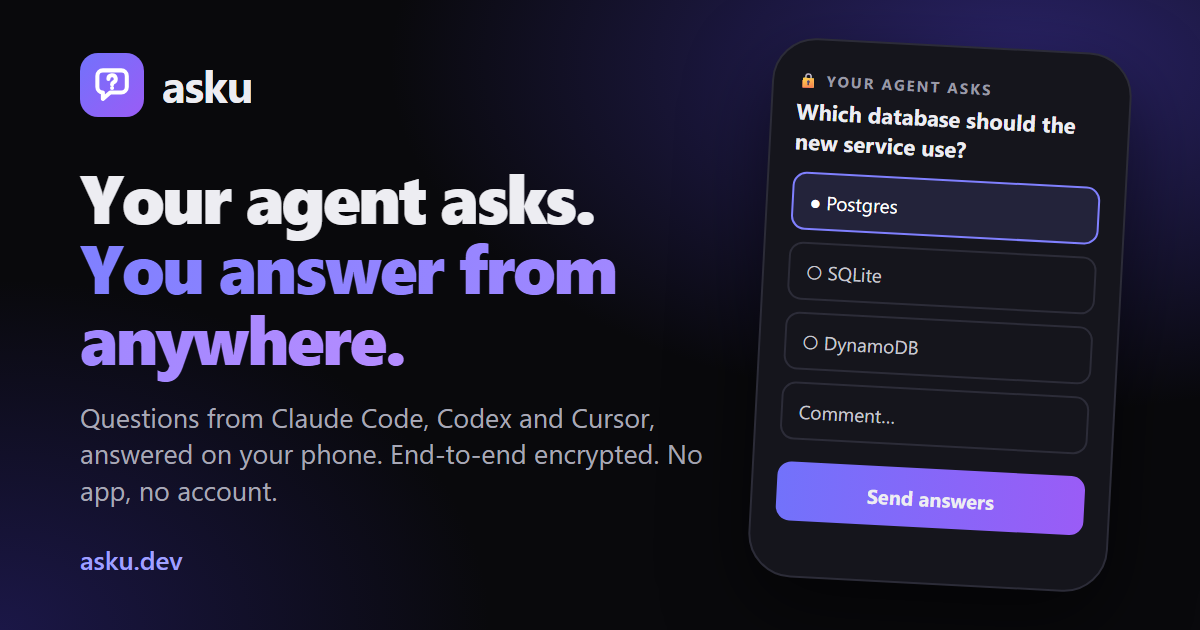
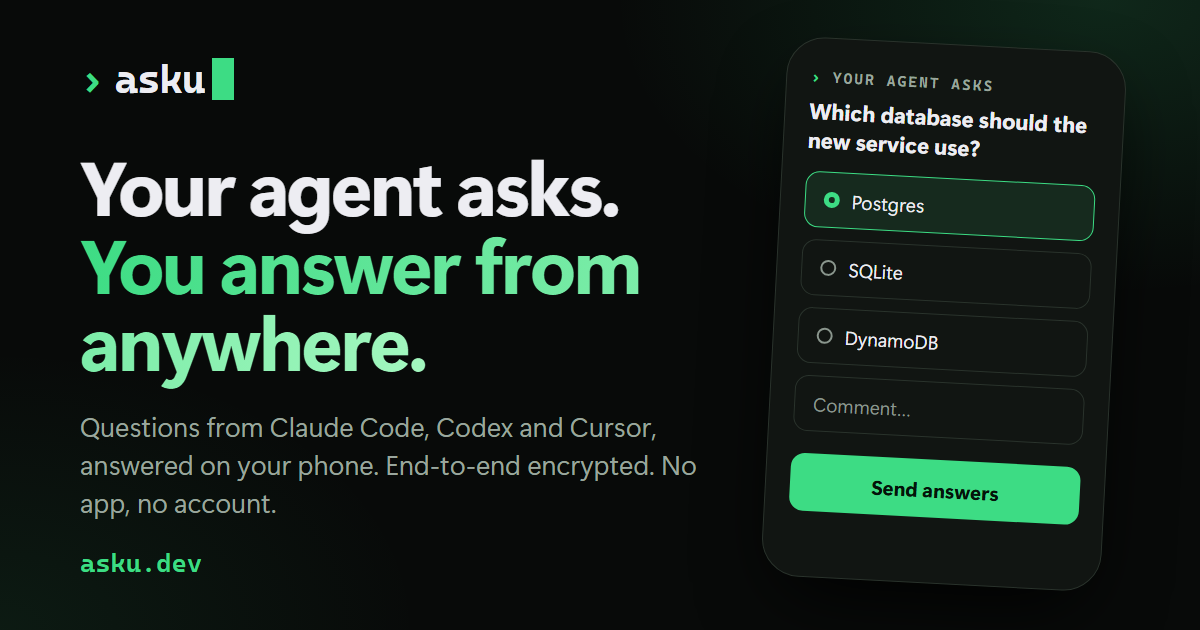
New brand: › asku▊ terminal-prompt wordmark and phosphor green
Picked from the brand prototype (branch prototype/brand, variant B + B).
Accent moves from indigo to green in light and dark; hard-coded indigo/purple replaced with tokens.
--on-accent keeps text and ticks on bright green readable (dark on green in dark mode).
New favicon (svg + ico), apple-touch-icon and og.png.

diff --git a/web/style.css b/web/style.css
@@ -12,50 +12,52 @@
   --faint: #6e6e7a; /* 4.5:1 on white: hints carry constraints users need to read */
   --line: #e5e5eb;
   --line-2: #d4d4dc;
-  --accent: #5b5bf6;
-  --accent-2: #8b5cf6;
-  --accent-text: #4545dc;
-  --accent-soft: #5b5bf614;
-  --btn: #5b5bf6;
-  --btn-hover: #4949e6;
+  --accent: #12a150;
+  --accent-2: #0b8f8f;
+  --accent-text: #0b7a3e;
+  --accent-soft: #12a15014;
+  --btn: #0e7f42;
+  --btn-hover: #0b6e39;
+  --on-accent: #fff; /* text and ticks drawn on the accent */
   --ok: #0f8a47;
   --ok-soft: #12a15014;
   --err: #cf2a1d;
   --err-soft: #d1291c12;
-  --ring: 0 0 0 3px #5b5bf63d;
+  --ring: 0 0 0 3px #12a1503d;
   --shadow-sm: 0 1px 2px #0b0b100d;
   --shadow: 0 1px 2px #0b0b100d, 0 10px 30px -12px #0b0b1024;
-  --shadow-lg: 0 2px 6px #0b0b100d, 0 30px 70px -20px #23236a4d;
+  --shadow-lg: 0 2px 6px #0b0b100d, 0 30px 70px -20px #0a3d224d;
   --term-bg: #0c0c11;
-  --glow: #6d6dfa30;
+  --glow: #12a15024;
 }
 @media (prefers-color-scheme: dark) {
   :root {
-    --bg: #09090c;
-    --bg-2: #0f0f14;
-    --surface: #131318;
+    --bg: #080a09;
+    --bg-2: #0c0f0d;
+    --surface: #111512;
     --fg: #ededf2;
     --fg-2: #c8c8d0;
     --muted: #9a9aa6;
     --faint: #8a8a96;
-    --line: #22222a;
-    --line-2: #32323c;
-    --accent: #8080ff;
-    --accent-2: #b48cff;
-    --accent-text: #a0a0ff;
-    --accent-soft: #8080ff1c;
-    --btn: #5b5bf6;
-    --btn-hover: #6b6bff;
+    --line: #1c231e;
+    --line-2: #2a332c;
+    --accent: #3ddc84;
+    --accent-2: #a3f7bf;
+    --accent-text: #5ee69b;
+    --accent-soft: #3ddc841c;
+    --btn: #3ddc84;
+    --btn-hover: #5ee69b;
+    --on-accent: #04140a; /* bright green takes dark text */
     --ok: #3ccf86;
     --ok-soft: #3ccf861a;
     --err: #ff6f63;
     --err-soft: #ff6f6317;
-    --ring: 0 0 0 3px #8080ff4d;
+    --ring: 0 0 0 3px #3ddc844d;
     --shadow-sm: 0 1px 2px #0006;
     --shadow: 0 1px 2px #0006, 0 10px 30px -12px #000a;
     --shadow-lg: 0 2px 6px #0006, 0 30px 80px -20px #000;
     --term-bg: #0d0d12;
-    --glow: #6d6dfa26;
+    --glow: #3ddc841f;
   }
 }
 
@@ -68,7 +70,7 @@ body {
 }
 a { color: var(--accent-text); }
 :focus-visible { outline: 2px solid var(--accent); outline-offset: 2px; }
-::selection { background: #5b5bf640; }
+::selection { background: color-mix(in srgb, var(--accent) 25%, transparent); }
 .boot { text-align: center; color: var(--muted); padding: 4rem 1rem; }
 .sr-only { position: absolute; width: 1px; height: 1px; margin: -1px; padding: 0; overflow: hidden; clip-path: inset(50%); white-space: nowrap; border: 0; }
 code { font-family: var(--mono); font-size: .86em; background: var(--bg-2); border: 1px solid var(--line); border-radius: 5px; padding: .06em .35em; }
@@ -85,7 +87,7 @@ code { font-family: var(--mono); font-size: .86em; background: var(--bg-2); bord
   -webkit-tap-highlight-color: transparent;
 }
 .btn:active:not([disabled]) { transform: translateY(1px); }
-.btn-primary { background: var(--btn); color: #fff; box-shadow: inset 0 1px 0 #ffffff2e, 0 1px 2px #0003, 0 6px 18px -6px #5b5bf6aa; }
+.btn-primary { background: var(--btn); color: var(--on-accent); box-shadow: inset 0 1px 0 #ffffff2e, 0 1px 2px #0003, 0 6px 18px -6px color-mix(in srgb, var(--btn) 67%, transparent); }
 .btn-primary:hover { background: var(--btn-hover); }
 .btn-secondary { background: var(--surface); color: var(--fg); border-color: var(--line-2); box-shadow: var(--shadow-sm); }
 .btn-secondary:hover { background: var(--bg-2); }
@@ -104,13 +106,11 @@ code { font-family: var(--mono); font-size: .86em; background: var(--bg-2); bord
   border-bottom: 1px solid color-mix(in srgb, var(--line) 70%, transparent);
 }
 .bar { display: flex; align-items: center; justify-content: space-between; height: 60px; }
-.logo { display: inline-flex; align-items: center; gap: .55em; font-weight: 720; font-size: 1.12rem; letter-spacing: -.025em; color: var(--fg); text-decoration: none; }
-.mark {
-  width: 1.65em; height: 1.65em; border-radius: .48em; display: grid; place-items: center; color: #fff;
-  background: linear-gradient(140deg, #7272fb, #9a5cf6 90%);
-  box-shadow: inset 0 1px 0 #ffffff47, 0 2px 8px -2px #5b5bf699;
-}
-.mark .icon { width: 68%; height: 68%; stroke-width: 2; }
+.logo { display: inline-flex; align-items: center; gap: .3em; font: 700 1.05rem var(--mono); letter-spacing: -.02em; color: var(--fg); text-decoration: none; }
+.logo-prompt { color: var(--accent); font-weight: 800; }
+.logo-caret { width: .55em; height: 1.05em; margin-left: -.12em; background: var(--accent); }
+@media (prefers-reduced-motion: no-preference) { .logo-caret { animation: caret 1.1s steps(1) infinite; } }
+@keyframes caret { 50% { opacity: 0; } }
 .nav { display: flex; align-items: center; gap: .15rem; }
 .nav a { color: var(--muted); text-decoration: none; font-size: .92rem; font-weight: 550; padding: .45rem .7rem; border-radius: 8px; display: inline-flex; }
 .nav a:hover, .nav a[aria-current="page"] { color: var(--fg); background: var(--bg-2); }
@@ -124,7 +124,7 @@ code { font-family: var(--mono); font-size: .86em; background: var(--bg-2); bord
 .hero { position: relative; padding: 3.5rem 0 3.5rem; overflow: hidden; isolation: isolate; }
 .hero::before {
   content: ""; position: absolute; z-index: -1; left: 50%; top: -240px; width: 1300px; height: 900px; translate: -50% 0;
-  background: radial-gradient(40% 38% at 50% 42%, var(--glow), transparent 72%), radial-gradient(22% 26% at 72% 40%, #a855f71f, transparent 70%);
+  background: radial-gradient(40% 38% at 50% 42%, var(--glow), transparent 72%), radial-gradient(22% 26% at 72% 40%, color-mix(in srgb, var(--accent-2) 12%, transparent), transparent 70%);
 }
 .hero::after {
   content: ""; position: absolute; z-index: -1; inset: 0 0 auto; height: 620px; opacity: .6;
@@ -142,7 +142,7 @@ code { font-family: var(--mono); font-size: .86em; background: var(--bg-2); bord
 .pill .icon { color: var(--ok); width: 1em; height: 1em; stroke-width: 2.2; }
 .hero h1 { font-size: clamp(2.35rem, 8vw, 4.5rem); line-height: 1.02; letter-spacing: -.045em; font-weight: 760; margin: 0 0 1.4rem; text-wrap: balance; }
 .grad {
-  background: linear-gradient(95deg, var(--accent) 5%, var(--accent-2) 55%, #d16bf2 95%);
+  background: linear-gradient(95deg, var(--accent) 5%, var(--accent-2) 95%);
   -webkit-background-clip: text; background-clip: text; color: transparent;
 }
 .lead { font-size: 1.08rem; color: var(--muted); max-width: 40rem; margin: 0; text-wrap: pretty; }
@@ -235,7 +235,7 @@ code { font-family: var(--mono); font-size: .86em; background: var(--bg-2); bord
 .phone-idle p { margin: 0; max-width: 12em; }
 .tap {
   position: absolute; z-index: 5; left: var(--x, 50%); top: var(--y, 50%); width: 38px; height: 38px; margin: -19px 0 0 -19px;
-  border-radius: 50%; background: #5b5bf63d; border: 2px solid #5b5bf6b3; pointer-events: none; opacity: 0;
+  border-radius: 50%; background: color-mix(in srgb, var(--accent) 24%, transparent); border: 2px solid color-mix(in srgb, var(--accent) 70%, transparent); pointer-events: none; opacity: 0;
 }
 .tap.on { animation: tap .6s ease-out; }
 .pressed { scale: .975; }
@@ -389,7 +389,7 @@ textarea.input { resize: vertical; line-height: 1.45; }
 .new-chip {
   position: fixed; z-index: 3; left: 50%; bottom: calc(5.6em + env(safe-area-inset-bottom)); translate: -50% 0;
   display: inline-flex; align-items: center; gap: .45em; padding: .55em 1em .55em .85em; font: inherit; font-size: .86em; font-weight: 640;
-  color: #fff; background: var(--btn); border: 0; border-radius: 999px; box-shadow: var(--shadow-sm); cursor: pointer; animation: chip-in .3s ease-out;
+  color: var(--on-accent); background: var(--btn); border: 0; border-radius: 999px; box-shadow: var(--shadow-sm); cursor: pointer; animation: chip-in .3s ease-out;
 }
 @keyframes chip-in { from { opacity: 0; translate: -50% 10px; } } /* rise would drop the -50% centring */
 .btn-sm { padding: .6em 1em; font-size: .88rem; min-height: 2.75rem; }
@@ -439,8 +439,8 @@ fieldset.q.invalid .q-num { background: var(--err); color: #fff; }
 .pick[type=radio] { border-radius: 50%; }
 .pick[type=checkbox] { border-radius: .35em; }
 .pick:checked { background: var(--accent); border-color: var(--accent); }
-.pick[type=radio]:checked::after { content: ""; width: .44em; height: .44em; border-radius: 50%; background: #fff; }
-.pick[type=checkbox]:checked::after { content: ""; width: .7em; height: .7em; background: #fff; clip-path: polygon(14% 44%, 0 62%, 40% 100%, 100% 22%, 84% 5%, 39% 64%); }
+.pick[type=radio]:checked::after { content: ""; width: .44em; height: .44em; border-radius: 50%; background: var(--on-accent); }
+.pick[type=checkbox]:checked::after { content: ""; width: .7em; height: .7em; background: var(--on-accent); clip-path: polygon(14% 44%, 0 62%, 40% 100%, 100% 22%, 84% 5%, 39% 64%); }
 .pick:focus-visible { outline: none; }
 
 .seg { display: grid; grid-template-columns: 1fr 1fr; gap: .55em; }
@@ -520,7 +520,7 @@ details.comment textarea { margin-top: .45em; font-size: .95em; }
 .mood-nervous .btn-send { animation: jitter 3s ease-in-out infinite; }
 .mood-begging .mood-face, .mood-excited .mood-face { animation: bounce 1.1s ease-in-out infinite; }
 .mood-begging .yn-yes { animation: plead 1.6s ease-in-out infinite; }
-.mood-excited .btn-send { background: linear-gradient(95deg, var(--accent) 5%, var(--accent-2) 55%, #d16bf2 95%); }
+.mood-excited .btn-send { background: linear-gradient(95deg, var(--accent) 5%, var(--accent-2) 95%); }
 .mood-confident .btn-send { box-shadow: 0 0 0 4px var(--accent-soft), 0 8px 24px -6px var(--accent); }
 .mood-confident .mood { font-weight: 700; }
 .mood-grumpy { filter: saturate(.35); }

diff --git a/web/app.ts b/web/app.ts
@@ -73,9 +73,9 @@ function icon(name: string, cls = "") {
   s.innerHTML = ICONS[name];
   return s;
 }
-const mark = () => h("span", { className: "mark" }, icon("bubble"));
+// a terminal prompt: › asku▊
 const logo = (href?: string) => {
-  const kids = [mark(), h("span", { className: "wordmark", textContent: "asku" })];
+  const kids = [h("span", { className: "logo-prompt", ariaHidden: "true", textContent: "›" }), h("span", { className: "wordmark", textContent: "asku" }), h("i", { className: "logo-caret", ariaHidden: "true" })];
   return href ? h("a", { className: "logo", href, ariaLabel: "asku home" }, ...kids) : h("span", { className: "logo" }, ...kids);
 };
 

diff --git a/web/index.html b/web/index.html
@@ -5,7 +5,7 @@
 <meta name="viewport" content="width=device-width, initial-scale=1, viewport-fit=cover">
 <meta name="color-scheme" content="light dark">
 <meta name="theme-color" content="#fafafb" media="(prefers-color-scheme: light)">
-<meta name="theme-color" content="#09090c" media="(prefers-color-scheme: dark)">
+<meta name="theme-color" content="#080a09" media="(prefers-color-scheme: dark)">
 <meta name="referrer" content="no-referrer">
 <link rel="icon" href="/favicon.ico" sizes="32x32">
 <link rel="icon" href="/favicon.svg" type="image/svg+xml">
